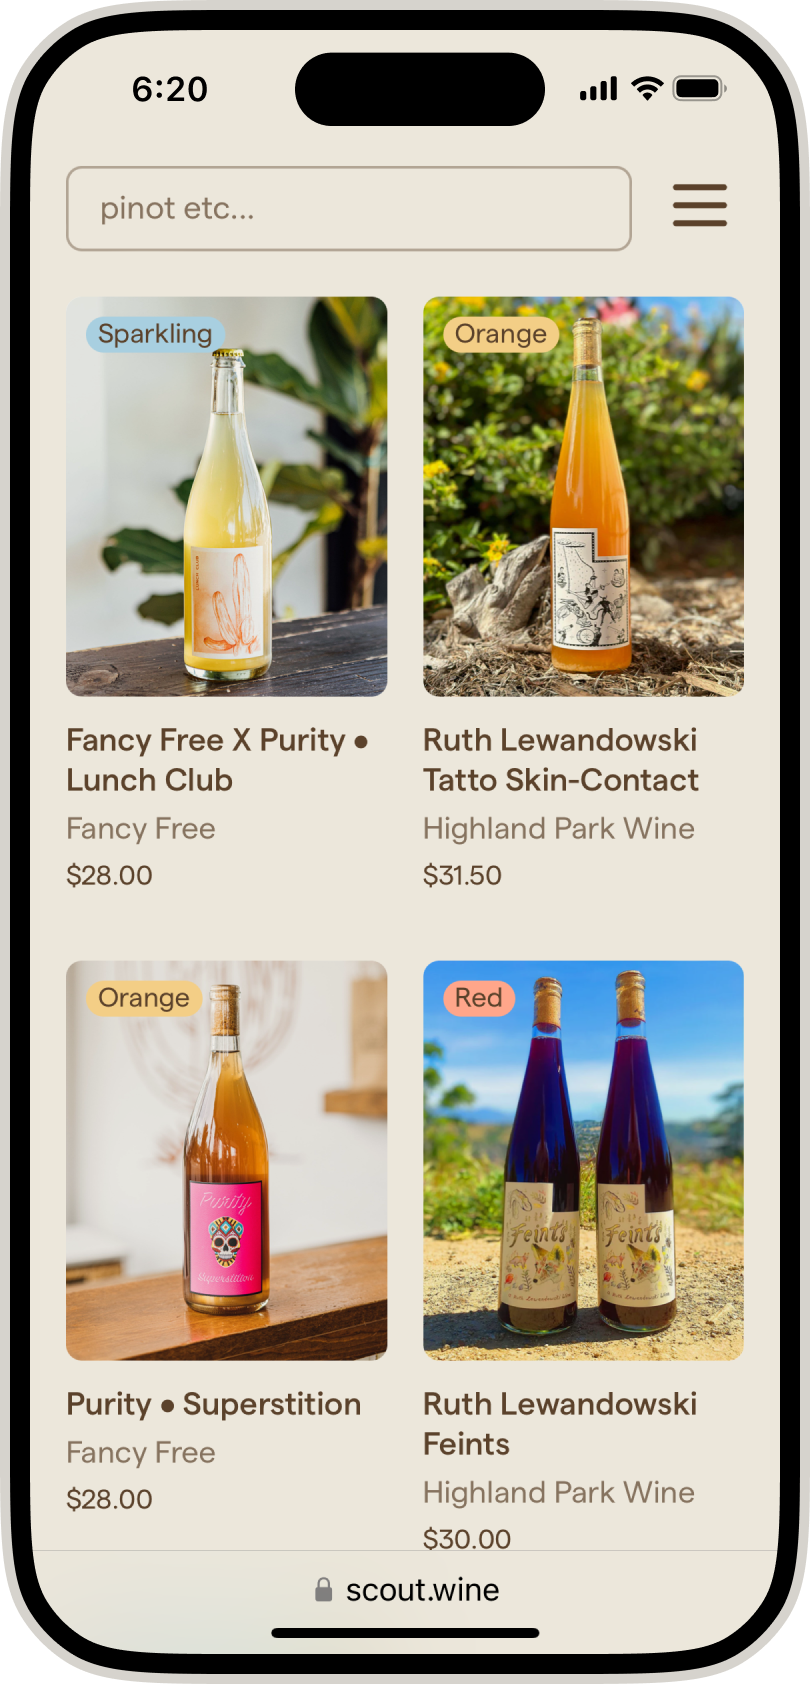
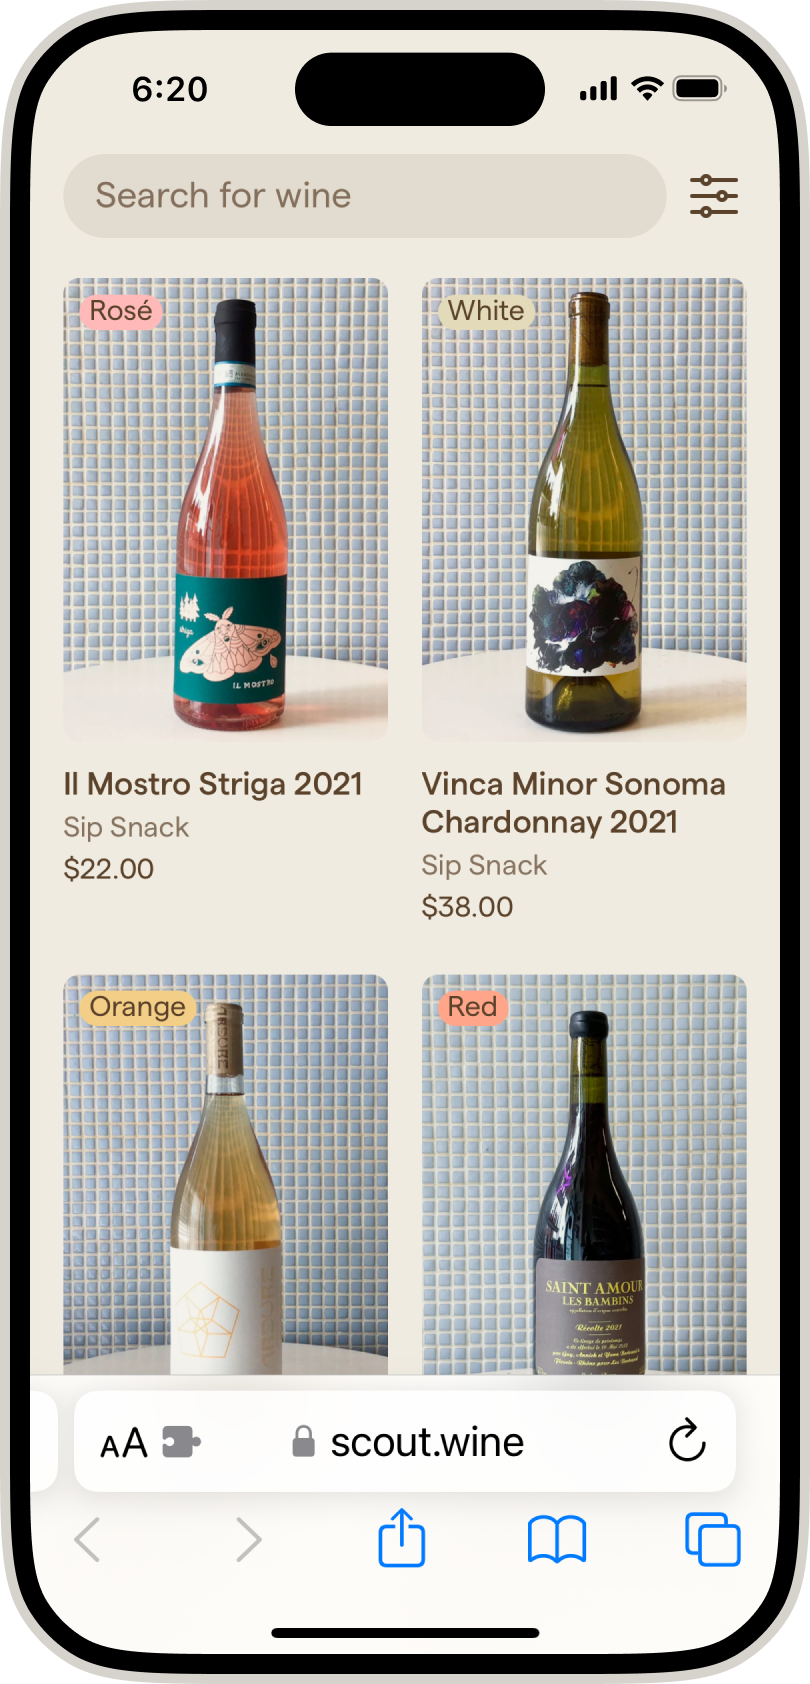
updated scout thumbnail

diff --git a/index.html b/index.html
@@ -70,7 +70,7 @@
 
       <section class="switcher split scout">
         <a href="https://scout.wine" class="thumbnail">
-          <img class="mobile" src="assets/thumbnails/scout-phone-mockup-14.png">
+          <img class="mobile" src="assets/thumbnails/scout-phone-mockup.png">
           <!-- <img class="mobile" src="assets/thumbnails/scout-phone-mockup-23.png"> -->
         </a>
         <div class="stack small">
